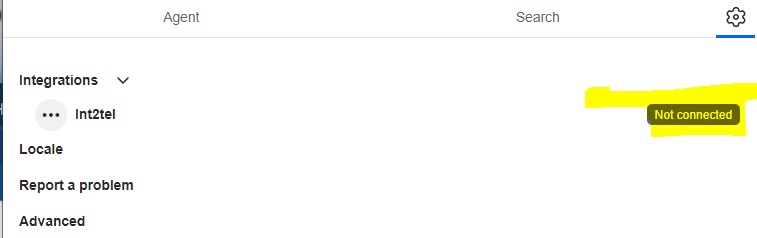
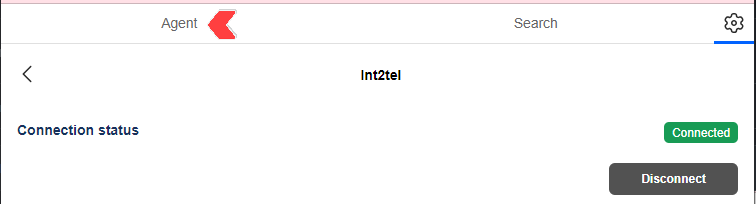
new images

diff --git a/content.js b/content.js
@@ -22,8 +22,13 @@ function createModal(message) {
 
   // Create the title
   const title = document.createElement("h2");
-  title.textContent = "Check your connection status";
+  title.textContent = "You are not connected!";
   modalContent.appendChild(title);
+
+  const paragraph = document.createElement("p");
+  paragraph.style = "margin-top: 10px";
+  paragraph.textContent = "In the top right corner, click on the settings icon";
+  modalContent.appendChild(paragraph);
 
   // Create the image
   const image = document.createElement("img");
@@ -31,26 +36,42 @@ function createModal(message) {
     "https://raw.githubusercontent.com/Pedro-Ribas-Moreira/8x8extension/main/systemOne.png";
   image.style.maxWidth = "100%";
   image.style.height = "auto";
+  image.style.border = "1px solid black";
   modalContent.appendChild(image);
+
+  const paragraphTwo = document.createElement("p");
+  paragraphTwo.style = "margin-top: 10px";
+
+  paragraphTwo.textContent =
+    "Click on the button that says 'not connected', then click again in the button to connect";
+  modalContent.appendChild(paragraphTwo);
 
   const imagetwo = document.createElement("img");
   imagetwo.src =
-    "https://raw.githubusercontent.com/Pedro-Ribas-Moreira/8x8extension/main/systemOne.png";
+    "https://raw.githubusercontent.com/Pedro-Ribas-Moreira/8x8extension/main/systemTwo.png";
   imagetwo.style.maxWidth = "100%";
   imagetwo.style.height = "auto";
+  imagetwo.style.border = "1px solid black";
+
   modalContent.appendChild(imagetwo);
+
+  const paragraphThree = document.createElement("p");
+  paragraphThree.style = "margin-top: 10px";
+
+  paragraphThree.textContent =
+    "Wait for the connection to be established, then return to the 'Agent' tab";
+  modalContent.appendChild(paragraphThree);
 
   const imageThree = document.createElement("img");
   imageThree.src =
-    "https://raw.githubusercontent.com/Pedro-Ribas-Moreira/8x8extension/main/systemOne.png";
+    "https://raw.githubusercontent.com/Pedro-Ribas-Moreira/8x8extension/main/systemThree.png";
   imageThree.style.maxWidth = "100%";
   imageThree.style.height = "auto";
+  imageThree.style.border = "1px solid black";
+
   modalContent.appendChild(imageThree);
 
   // Create the paragraph
-  const paragraph = document.createElement("p");
-  paragraph.textContent = message;
-  modalContent.appendChild(paragraph);
 
   // Create the OK button
   const okButton = document.createElement("button");
@@ -83,9 +104,9 @@ function findAndAlertText() {
     if (document.querySelector(".disconnected").classList.contains("ng-hide")) {
       alert("Good Work");
     } else {
-      createModal("You are not connected to the in2tel integration");
+      createModal();
     }
-  }, 10000); // 10000 milliseconds (10 seconds)
+  }, 5000); // 10000 milliseconds (10 seconds)
 }
 
 window.onload = findAndAlertText;
